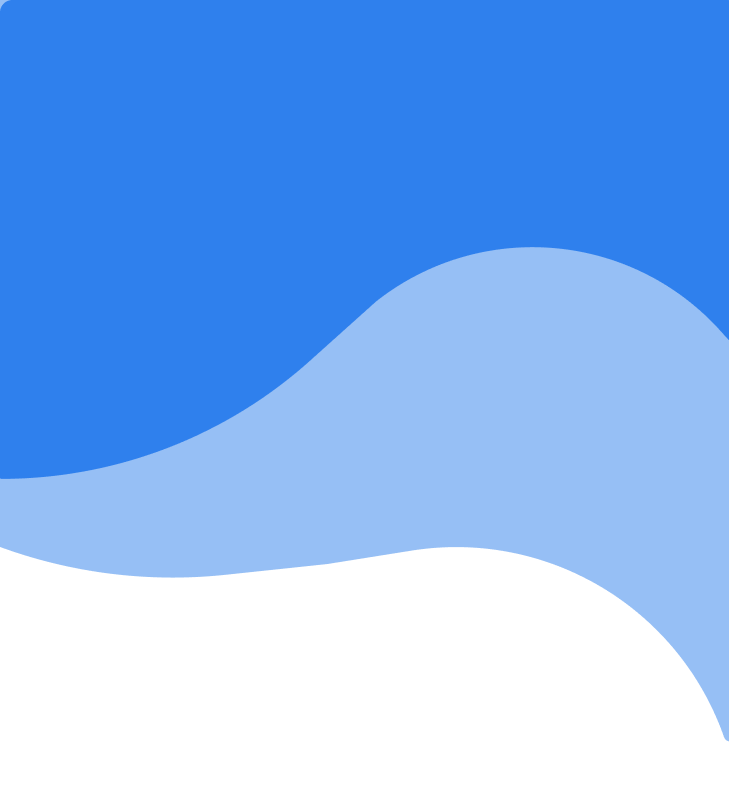
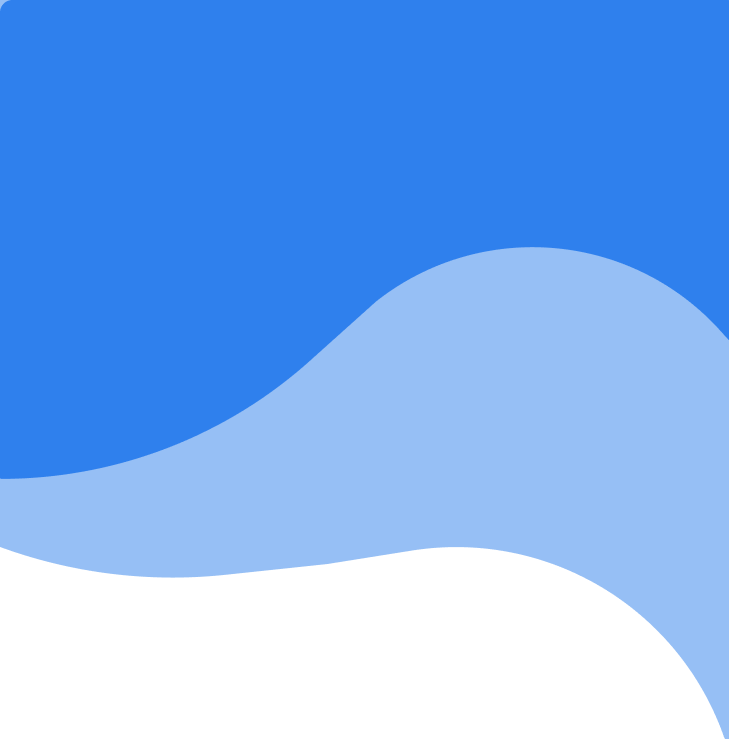
added background image bottom on home page

Changed region(s): [[0.0, 0.6847, 1.0, 1.0], [0.0, 0.3112, 1.0, 0.6536]]

diff --git a/lib/app/ui/android/home/home_page.dart b/lib/app/ui/android/home/home_page.dart
@@ -12,7 +12,7 @@ class HomePage extends StatelessWidget {
           Column(
             children: [
               Container(
-                height: height * 56,
+                height: height * 50,
                 decoration: BoxDecoration(
                   image: DecorationImage(
                     image: AssetImage('assets/images/back_top.png'),
@@ -20,6 +20,18 @@ class HomePage extends StatelessWidget {
                   )
                 ),
               ),
+              Container(
+                height: height * 34,
+              ),
+              Container(
+                height: height * 16,
+                decoration:  BoxDecoration(
+                  image: DecorationImage(
+                    image: AssetImage('assets/images/back_bottom.png'),
+                    fit: BoxFit.fill
+                  )
+                ),
+              )
             ],
           ),
         ],
